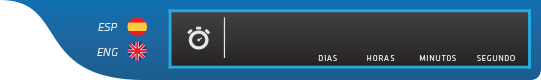
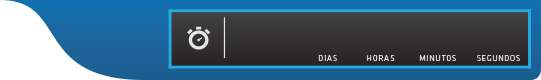
Last weekend

Changed region(s): [[0.1774, 0.525, 0.2957, 0.775], [0.1774, 0.2, 0.2957, 0.45], [0.9464, 0.675, 0.976, 0.775]]

diff --git a/wp-content/themes/cjorda/css/barra_navegacion.less b/wp-content/themes/cjorda/css/barra_navegacion.less
@@ -136,13 +136,17 @@ background-color:rgba(23,81,138,0.94);
   margin-left: 17px;
 }
 
-.redes.gp3 {
-  top: 7px;
-  position: absolute;
-  margin-left: 46px!important;
-}
-
 #ipadlogo > img {
 /*   margin-top: -19px; */
   width: 300px;
+}
+
+#cronoizq {
+  position: absolute;
+  left: 94px;
+  top: 20px;
+}
+
+.gp3 > img {
+  width: 62px;
 }

diff --git a/wp-content/themes/cjorda/barra_navegacion.php b/wp-content/themes/cjorda/barra_navegacion.php
@@ -27,11 +27,10 @@
     		<a href="<?php bloginfo("url");?>/partners"><div class="btn_barra <?php if(is_page("partners"))echo 'activeb';?>"><p>PARTNERS</p></div></a>
     		<a href="<?php bloginfo("url");?>/contacto"><div class="btn_barra <?php if(is_page("contacto"))echo 'activeb';?>"><p>CONTACTO</p></div></a>
     		<div class="botonesredes">
-    		<a href="https://www.facebook.com/carmenjordaofficial" class="redes"><div class="btn_barra"><img src="<?php bloginfo("template_url");?>/img/facebook3.png" alt=""></div></a>
-    		<a href="http://twitter.com/carmenjorda" class="redes"><div class="btn_barra"><img src="<?php bloginfo("template_url");?>/img/twitter3.png" alt=""></div></a>
-    		<a href="http://instagram.com/carmenjorda#" class="redes youtube"><div class="btn_barra"><img src="<?php bloginfo("template_url");?>/img/instaboton.png" alt=""></div></a>
-    		<a href="http://instagram.com/carmenjorda#" class="redes gp3"><div class="btn_barra"><img src="<?php bloginfo("template_url");?>/img/gp3.png" alt=""></div></a>
-    		</div>
+    		<a target="_blank" href="https://www.facebook.com/carmenjordaofficial" class="redes"><div class="btn_barra"><img src="<?php bloginfo("template_url");?>/img/facebook3.png" alt=""></div></a>
+    		<a target="_blank" href="http://twitter.com/carmenjorda" class="redes"><div class="btn_barra"><img src="<?php bloginfo("template_url");?>/img/twitter3.png" alt=""></div></a>
+    		<a target="_blank" href="http://instagram.com/carmenjorda#" class="redes youtube"><div class="btn_barra"><img src="<?php bloginfo("template_url");?>/img/instaboton.png" alt=""></div></a>
+    	</div>
 	   </div>
 	</div>
 </div>
@@ -66,9 +65,9 @@
     		<a href="<?php bloginfo("url");?>/contacto"><div class="btn_barra <?php if(is_page("contacto"))echo 'activeb';?>"><p>CONTACTO</p></div></a>
     		<a href="<?php bloginfo("url");?>/partners"><div class="btn_barra <?php if(is_page("partners"))echo 'activeb';?>"><p>PARTNERS</p></div></a>
     		<div class="botonesredes">
-    		<a href="https://www.facebook.com/carmenjordaofficial" class="redes"><div class="btn_barra"><img src="<?php bloginfo("template_url");?>/img/facebook3.png" alt=""></div></a>
-    		<a href="http://twitter.com/carmenjorda" class="redes"><div class="btn_barra"><img src="<?php bloginfo("template_url");?>/img/twitter3.png" alt=""></div></a>
-    		<a href="http://instagram.com/carmenjorda#" class="redes youtube"><div class="btn_barra"><img src="<?php bloginfo("template_url");?>/img/instaboton.png" alt=""></div></a>
+    		<a target="_blank" href="https://www.facebook.com/carmenjordaofficial" class="redes"><div class="btn_barra"><img src="<?php bloginfo("template_url");?>/img/facebook3.png" alt=""></div></a>
+    		<a target="_blank" href="http://twitter.com/carmenjorda" class="redes"><div class="btn_barra"><img src="<?php bloginfo("template_url");?>/img/twitter3.png" alt=""></div></a>
+    		<a target="_blank" href="http://instagram.com/carmenjorda#" class="redes youtube"><div class="btn_barra"><img src="<?php bloginfo("template_url");?>/img/instaboton.png" alt=""></div></a>
     		</div>
 	   </div>
 	</div>

diff --git a/wp-content/themes/cjorda/crono.php b/wp-content/themes/cjorda/crono.php
@@ -17,6 +17,13 @@ $events = eo_get_events(array(
 			$minuto_evento=eo_format_date($event->StartTime, 'i');
 		?>
 		<div class="contenedor_crono">
+		
+			<div id="cronoizq">
+				<a href="http://instagram.com/carmenjorda#" class="gp3"><img src="<?php bloginfo("template_url");?>/img/gp3.png" alt=""></a>
+				
+
+			</div>
+		
 			<div class="cr_digito" id="cr_titulo"><?php echo	get_the_title($event->ID);?></div>
 			<div class="cr_digito cr_reloj" id="cr_dias">0</div>
 			<div class="cr_digito cr_puntos">:</div>

diff --git a/wp-content/themes/cjorda/barra_derecha.php b/wp-content/themes/cjorda/barra_derecha.php
@@ -31,7 +31,7 @@
 	<ul>
 		<?php
 		foreach ( $rss_items as $item ) : ?>
-			<a href="<?php echo $item->get_permalink();?>">
+			<a target="_blank" href="<?php echo $item->get_permalink();?>">
 				<div class="entrada_derecha">
 					<div class="contenedor_icono"><img src="<?php bloginfo("template_url");?>/img/twitter.png"></div>
 					<div class="conte">

diff --git a/wp-content/themes/cjorda/footer.php b/wp-content/themes/cjorda/footer.php
@@ -25,7 +25,7 @@
         				</a>
     				</div>
     				<div class="copyright">
-    					©Carmen Jordá 2013 | <a href="">Aviso legal</a>
+    					©Carmen Jordá 2013 | <a href="">Aviso legal</a> | <a href="<?php bloginfo("url");?>/en">English version</a>
     				</div>
 				</div>
 				<div class="patrocinadores_footer visible-desktop">
